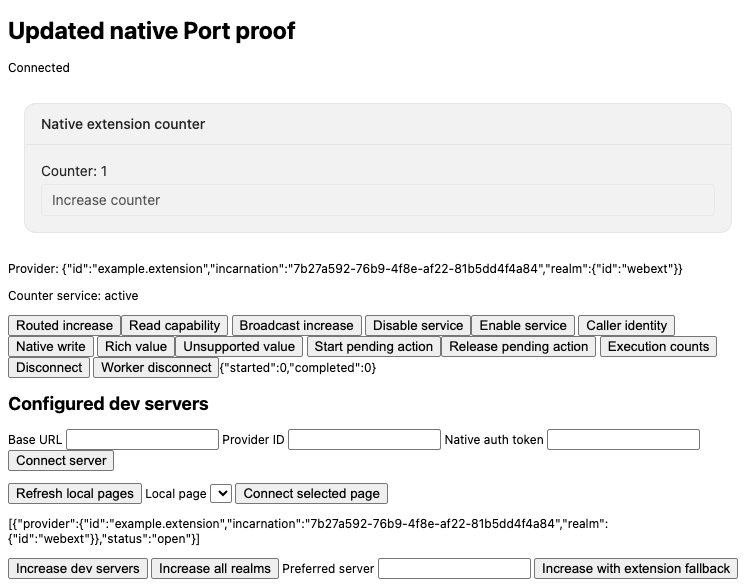
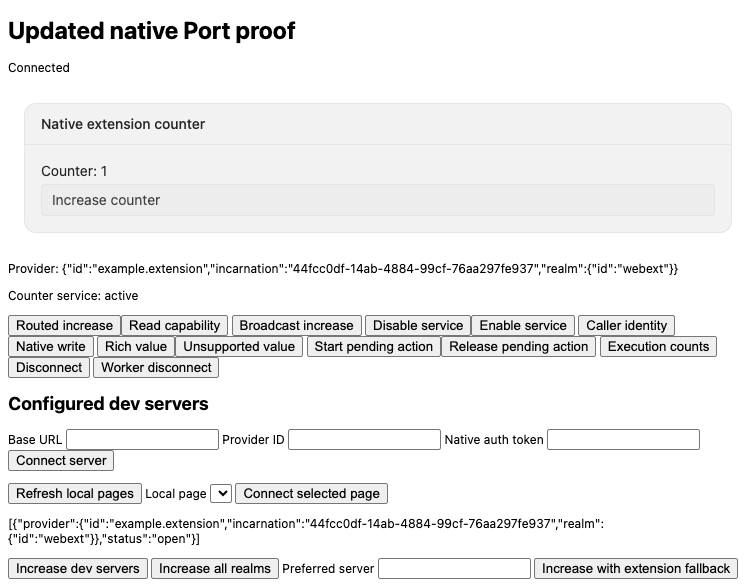
fix(webext): keep manifest edits in native config lifecycle (#13)

Changed region(s): [[0.3955, 0.4293, 0.8823, 0.4906], [0.3955, 0.8586, 0.791, 0.9199], [0.2738, 0.6133, 0.5172, 0.644]]

diff --git a/examples/webext/tests/chromium-development.ts b/examples/webext/tests/chromium-development.ts
@@ -8,7 +8,11 @@ import { chromium, expect } from '@playwright/test';
 import type { Browser, BrowserContext, Page } from '@playwright/test';
 import { createServer } from 'wxt';
 import type { WxtDevServer } from 'wxt';
-import { availablePort, createDevelopmentFixture } from './development-fixture.ts';
+import {
+  availablePort,
+  createDevelopmentFixture,
+  updateDevelopmentVersion,
+} from './development-fixture.ts';
 
 const root = await createDevelopmentFixture();
 const errors: string[] = [];
@@ -47,11 +51,13 @@ try {
   const origin = `chrome-extension://${new URL(worker.url()).host}`;
   const first = await openPanel(context, origin);
   const second = await openPanel(context, origin);
+  assert.equal(await first.evaluate(() => chrome.runtime.getManifest().version), '0.0.1');
   await checkModuleReplacement(first, second);
   await checkHtmlReplacement(first, second);
   const replacement = await checkBackgroundReplacement(first, second, origin);
+  const configured = await checkConfigurationRestart(replacement, origin, observerPort);
   assert.deepEqual(errors, []);
-  await replacement.screenshot({
+  await configured.screenshot({
     path: `${artifactDirectory}/panel.png`,
     fullPage: true,
   });
@@ -81,6 +87,7 @@ await writeFile(
         'Pending old action completes without overwriting replacement UI',
         'HTML edit reloads documents and retains provider state',
         'Background edit replaces provider, resets ephemeral state and does not replay actions',
+        'Config edit closes the original browser and adopts manifest 0.0.2 in a new provider',
         'Native stop closes browser',
       ],
       errors,
@@ -205,4 +212,59 @@ async function checkBackgroundReplacement(
   await replacement.getByRole('button', { name: 'Increase counter', exact: true }).click();
   await expect(replacement.getByText('Counter: 1', { exact: true })).toBeVisible();
   return replacement;
+}
+
+async function checkConfigurationRestart(
+  page: Page,
+  origin: string,
+  observerPort: number,
+): Promise<Page> {
+  assert.ok(browser);
+  const previousBrowser = browser;
+  const provider = await page.locator('#provider').innerText();
+  await waitForSavedDeveloperMode();
+  await updateDevelopmentVersion(root);
+  await expect.poll(() => previousBrowser.isConnected(), { timeout: 30_000 }).toBe(false);
+  browser = await connectObserver(observerPort);
+  const context = browser.contexts()[0];
+  assert.ok(context);
+  context.on('weberror', (error) => errors.push(error.error().message));
+  const manager = await context.newPage();
+  await manager.goto('chrome://extensions');
+  await expect(manager.locator('#devMode')).toHaveAttribute('checked', '');
+  await manager.close();
+  const replacement = await openPanel(context, origin);
+  assert.equal(await replacement.evaluate(() => chrome.runtime.getManifest().version), '0.0.2');
+  assert.notEqual(await replacement.locator('#provider').innerText(), provider);
+  await replacement.getByRole('button', { name: 'Increase counter', exact: true }).click();
+  await expect(replacement.getByText('Counter: 1', { exact: true })).toBeVisible();
+  return replacement;
+}
+
+/** Wait for the platform's native store before restart; the live UI is checked again afterward. */
+async function waitForSavedDeveloperMode(): Promise<void> {
+  /** Linux does not enforce this preference; macOS and Windows protect it in a separate store. */
+  const protectedPreferences = process.platform === 'darwin' || process.platform === 'win32';
+  const filename = protectedPreferences ? 'Secure Preferences' : 'Preferences';
+  const path = join(root, '.wxt/chromium-profile/Default', filename);
+  await expect
+    .poll(
+      async () => {
+        if (!existsSync(path)) return false;
+        const saved: unknown = JSON.parse(await readFile(path, 'utf8'));
+        if (typeof saved !== 'object' || saved === null || !('extensions' in saved)) return false;
+        const { extensions } = saved;
+        if (typeof extensions !== 'object' || extensions === null || !('ui' in extensions))
+          return false;
+        const { ui } = extensions;
+        return (
+          typeof ui === 'object' &&
+          ui !== null &&
+          'developer_mode' in ui &&
+          ui.developer_mode === true
+        );
+      },
+      { timeout: 30_000 },
+    )
+    .toBe(true);
 }

diff --git a/examples/webext/tests/firefox-development.ts b/examples/webext/tests/firefox-development.ts
@@ -4,7 +4,11 @@ import { styleText } from 'node:util';
 import { By, until } from 'selenium-webdriver';
 import type { Driver } from 'selenium-webdriver/firefox.js';
 import { createServer } from 'wxt';
-import { availablePort, createDevelopmentFixture } from './development-fixture.ts';
+import {
+  availablePort,
+  createDevelopmentFixture,
+  updateDevelopmentVersion,
+} from './development-fixture.ts';
 import { attachFirefox } from './firefox-development-observer.ts';
 
 const fixture = await createDevelopmentFixture();
@@ -12,6 +16,7 @@ const artifactDirectory = 'artifacts/firefox-development';
 let server: Awaited<ReturnType<typeof createServer>> | undefined;
 let observer: Awaited<ReturnType<typeof attachFirefox>> | undefined;
 let driver: Driver;
+let manifestVersion: string | undefined;
 
 try {
   await mkdir(artifactDirectory, { recursive: true });
@@ -40,6 +45,7 @@ try {
   await checkModuleUpdate();
   await checkHtmlReload();
   await checkBackgroundReload(observer.origin);
+  manifestVersion = await checkConfigurationRestart(marionettePort);
   await writeFile(`${artifactDirectory}/panel.png`, await driver.takeScreenshot(), 'base64');
 } finally {
   const cleanup = [
@@ -58,11 +64,13 @@ await writeFile(
     {
       passed: true,
       browserVersion: observer.browserVersion,
+      manifestVersion,
       nativeStopClosedBrowser: true,
       scenarios: [
         'Panel module HMR preserves document, provider and state; replaces caller; invokes each action once',
         'HTML reload replaces document while retaining provider and state',
         'Background reload closes old extension page; new page receives new incarnation and reset state',
+        'Config restart closes old Firefox; replacement runs manifest 0.0.2 with a new provider and working actions',
       ],
     },
     null,
@@ -71,7 +79,7 @@ await writeFile(
 );
 console.info(
   styleText('green', '✅ [webext/firefox-development]'),
-  'Native panel HMR, HTML reload, background reload and cleanup passed',
+  'Native panel HMR, HTML/background reload, configuration restart and cleanup passed',
 );
 
 async function checkModuleUpdate(): Promise<void> {
@@ -142,6 +150,31 @@ async function checkBackgroundReload(origin: string): Promise<void> {
   await click('#routed');
   await waitText('#result', '1');
   await counter(1);
+}
+
+async function checkConfigurationRestart(marionettePort: number): Promise<string> {
+  const previousObserver = observer;
+  assert.ok(previousObserver !== undefined);
+  const provider = await text('#provider');
+  assert.equal(
+    await driver.executeScript<string>('return chrome.runtime.getManifest().version'),
+    '0.0.1',
+  );
+  await updateDevelopmentVersion(fixture);
+  await previousObserver.dispose();
+  observer = await attachFirefox(marionettePort);
+  assert.notEqual(observer.processId, previousObserver.processId);
+  ({ driver } = observer);
+  await driver.get(`${observer.origin}/panel.html`);
+  await connected(0);
+  assert.notEqual(await text('#provider'), provider);
+  const version = await driver.executeScript<string>('return chrome.runtime.getManifest().version');
+  assert.equal(version, '0.0.2');
+  await click('#routed');
+  await waitText('#result', '1');
+  await increase();
+  await counter(2);
+  return version;
 }
 
 async function connected(value: number): Promise<void> {

diff --git a/examples/webext/tests/development-fixture.ts b/examples/webext/tests/development-fixture.ts
@@ -1,4 +1,5 @@
-import { cp, mkdtemp, realpath, rm, symlink } from 'node:fs/promises';
+import assert from 'node:assert/strict';
+import { cp, mkdtemp, readFile, realpath, rm, symlink, writeFile } from 'node:fs/promises';
 import { createServer } from 'node:net';
 import { tmpdir } from 'node:os';
 import { join, resolve as resolvePath } from 'node:path';
@@ -7,7 +8,7 @@ import { join, resolve as resolvePath } from 'node:path';
 export async function createDevelopmentFixture(): Promise<string> {
   const root = await realpath(await mkdtemp(join(tmpdir(), 'devkit-webext-development-')));
   try {
-    for (const name of ['package.json', 'wxt.config.ts', 'manifest.ts', 'src', 'entrypoints']) {
+    for (const name of ['package.json', 'wxt.config.ts', 'src', 'entrypoints']) {
       await cp(resolvePath(name), join(root, name), { recursive: true });
     }
     await symlink(resolvePath('node_modules'), join(root, 'node_modules'), 'dir');
@@ -33,4 +34,13 @@ export async function availablePort(): Promise<number> {
   });
   if (address === null || typeof address === 'string') throw new Error('Expected a TCP port');
   return address.port;
+}
+
+/** Change the application's actual watched configuration, not the generated manifest. */
+export async function updateDevelopmentVersion(root: string): Promise<void> {
+  const path = join(root, 'wxt.config.ts');
+  const source = await readFile(path, 'utf8');
+  const updated = source.replace("version: '0.0.1'", "version: '0.0.2'");
+  assert.notEqual(updated, source, 'Expected the application version in the native WXT config');
+  await writeFile(path, updated);
 }

diff --git a/examples/webext/wxt.config.ts b/examples/webext/wxt.config.ts
@@ -1,7 +1,7 @@
 import { mkdir } from 'node:fs/promises';
 import { resolve } from 'node:path';
 import { defineConfig } from 'wxt';
-import { createManifest } from './manifest.ts';
+import type { UserManifest } from 'wxt';
 
 const chromiumProfile = resolve(import.meta.dirname, '.wxt/chromium-profile');
 
@@ -22,3 +22,30 @@ export default defineConfig({
     keepProfileChanges: true,
   },
 });
+
+/** Shared application permissions and page URLs for native development and production builds. */
+export function createManifest(firefox: boolean): UserManifest {
+  const manifest = {
+    name: 'Devkit native Port example',
+    version: '0.0.1',
+    action: { default_popup: 'panel.html' },
+    options_ui: { page: 'panel.html', open_in_tab: true },
+    host_permissions: ['http://127.0.0.1/*'],
+    permissions: ['scripting'],
+    /** Allow loopback WebSockets without Firefox's default insecure-request upgrade. */
+    content_security_policy: {
+      extension_pages:
+        "script-src 'self'; object-src 'none'; connect-src 'self' http://127.0.0.1:* ws://127.0.0.1:*",
+    },
+  } satisfies UserManifest;
+  if (!firefox) return manifest;
+  return {
+    ...manifest,
+    browser_specific_settings: {
+      gecko: {
+        id: 'devkit-native-port@example.invalid',
+        data_collection_permissions: { required: ['none'] },
+      },
+    },
+  };
+}

diff --git a/examples/webext/tests/firefox-development-observer.ts b/examples/webext/tests/firefox-development-observer.ts
@@ -8,6 +8,7 @@ export async function attachFirefox(marionettePort: number): Promise<{
   driver: Driver;
   origin: string;
   browserVersion: string;
+  processId: number;
   dispose: () => Promise<void>;
 }> {
   const service = new ServiceBuilder(process.env.GECKODRIVER_BINARY)
@@ -34,6 +35,7 @@ export async function attachFirefox(marionettePort: number): Promise<{
       driver,
       origin: `moz-extension://${extensionUuid}`,
       browserVersion,
+      processId,
       dispose: () => disposeObserver(processId, service),
     };
   } catch (error) {

diff --git a/examples/webext/vite.config.ts b/examples/webext/vite.config.ts
@@ -1,7 +1,7 @@
 import { copyFile } from 'node:fs/promises';
 import { resolve } from 'node:path';
 import { defineConfig } from 'vite';
-import { createManifest } from './manifest.ts';
+import { createManifest } from './wxt.config.ts';
 
 export default defineConfig(({ mode }) => {
   const firefox = mode === 'firefox';

diff --git a/examples/webext/README.md b/examples/webext/README.md
@@ -72,18 +72,18 @@ pnpm --filter @devkit/example-webext dev
 pnpm --filter @devkit/example-webext dev:firefox
 ```
 
-WXT owns the Vite development server, browser process, HMR and native extension reloads. Both commands use Manifest V3 and the same `entrypoints/panel.html`, panel implementation, background implementation and application manifest as the production Vite build. WXT adds its development transport and owns its generated background manifest. Development outputs live under `.output/`; production outputs remain `dist/chromium` and `dist/firefox`.
+WXT owns the Vite development server, browser process, HMR and native extension reloads. Both commands use Manifest V3 and the same `entrypoints/panel.html`, panel implementation, background implementation and application manifest as the production Vite build. Application manifest metadata lives in the watched `wxt.config.ts`; the production build imports the same factory. WXT does not classify an imported manifest helper as a configuration change, so keeping those values in the actual configuration lets native version/permission edits trigger a restart. WXT adds its development transport and owns its generated background manifest. Development outputs live under `.output/`; production outputs remain `dist/chromium` and `dist/firefox`.
 
 On the first Chromium launch, open `chrome://extensions` and enable **Developer mode**. Let Chrome save the setting before restarting it. The native runner retains this setup under `.wxt/chromium-profile`, separate from your ordinary browser profile. Disabling Developer mode can cause Chrome to disable the extension on a background reload. No protected preference values or policy controls are written by this example. Browser executable overrides use WXT's native `webExt.binaries` configuration.
 
-| Edit                  | Native behavior                                       | Observed state                                                                           |
-| --------------------- | ----------------------------------------------------- | ---------------------------------------------------------------------------------------- |
-| Panel TypeScript      | Vite module replacement, old panel resources disposed | Same document/provider, retained native state, new connection                            |
-| Panel HTML            | Full page reload                                      | New document, same provider/state                                                        |
-| Background entrypoint | Extension reload; reopen the options page afterward   | New provider, reset ephemeral state, no automatic replay                                 |
-| WXT configuration     | Native browser/server restart                         | A new browser session; retained profile setup is independent of ephemeral provider state |
+| Edit                  | Native behavior                                       | Observed state                                                                          |
+| --------------------- | ----------------------------------------------------- | --------------------------------------------------------------------------------------- |
+| Panel TypeScript      | Vite module replacement, old panel resources disposed | Same document/provider, retained native state, new connection                           |
+| Panel HTML            | Full page reload                                      | New document, same provider/state                                                       |
+| Background entrypoint | Extension reload; reopen the options page afterward   | New provider, reset ephemeral state, no automatic replay                                |
+| WXT configuration     | Native browser/server restart                         | Old browser exits; manifest changes take effect; new provider and reset ephemeral state |
 
-The maintained live tests use temporary copies of this example and disposable browser profiles. They drive the actual native JSON renderer through module, HTML and background changes in both browsers. The retained [Chromium receipt](./evidence/development/chromium/receipt.json) and [Firefox receipt](./evidence/development/firefox/receipt.json) record passing runs on Chromium 153.0.8010.12 and Firefox 156.0.1. Chromium also checks a pending old command cannot overwrite replacement UI and confirms no page errors. Firefox observes native process shutdown; it does not claim global browser-error capture. Earlier frozen experiments retain the detailed listener/Port-count and config-restart comparisons.
+The maintained live tests use temporary copies of this example and disposable browser profiles. They drive the actual native JSON renderer through module, HTML, background and configuration changes in both browsers. The configuration check edits the application version from `0.0.1` to `0.0.2`, proves the old browser exits, then verifies the replacement manifest, new provider, reset counter and working action. Final native shutdown must also close the replacement browser. The retained [Chromium receipt](./evidence/development/chromium/receipt.json) and [Firefox receipt](./evidence/development/firefox/receipt.json) record passing runs on Chromium 153.0.8010.12 and Firefox 156.0.1. Chromium also checks a pending old command cannot overwrite replacement UI and confirms no page errors. Firefox observes native process shutdown; it does not claim global browser-error capture. Chromium verifies its native Developer mode setting survives restart. The test reads the platform's actual preference store and never writes protected values. Earlier frozen experiments retain the detailed listener/Port-count and upstream-runner comparisons.
 
 ```sh
 pnpm --filter @devkit/example-webext test:dev:chromium

diff --git a/patches/README.md b/patches/README.md
@@ -53,4 +53,4 @@ The maintained extension development commands use WXT 0.21.4 and its native web-
 
 The example explicitly installs the optional Rollup declaration peer and web-ext runner peer. Without web-ext, WXT falls back to manual browser startup. Neither patch introduces an SDK watcher, browser launcher or state recovery mechanism. Chrome Developer mode uses normal one-time browser setup in a dedicated persistent profile.
 
-Remove the declaration corrections when a released dependency passes the retained strict TS7 matrix and the maintained example with `skipLibCheck: false`. Remove the runner correction when the same native config-restart and final-stop checks pass unpatched in Chromium and Firefox. No upstream WXT PR has been opened. These patches belong to development tooling; production bundles contain no WXT runner or dev server.
+Remove the declaration corrections when a released dependency passes the retained strict TS7 matrix and the maintained example with `skipLibCheck: false`. The maintained Chromium and Firefox development tests now exercise a watched configuration edit through old-browser exit, replacement manifest/provider, working actions and final native stop. Remove the runner correction when these checks pass unpatched in both browsers. No upstream WXT PR has been opened. These patches belong to development tooling; production bundles contain no WXT runner or dev server.
